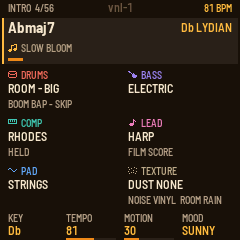
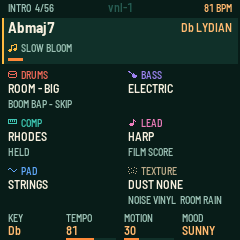
Theme: tangerine on teal (fm1-base's TEAL, APP_PALETTE 6) for the screens, the device mock and the site
Sam: Espresso reads as AI-generated. The screens move to fm1-base's new TEAL palette: background #0c1d1e, tile
#16302f (LINE), rule #2f5856 (DIM), label #9fbdb3 (GRAY), tangerine #ff8a3d (AMB), bright #ffb877 (HI), sand white
#f4ecdb (WHITE), mapped onto the slots as ESPRESSO's were. The record's disc is a teal-black #071011 (about 55% of
the background), its label tangerine. fm1-base also gains OLIVE (mustard on dark olive, APP_PALETTE 7), not used.

The workbench's device mock carries both palettes (device.js) and draws TEAL; parity matches. The part colors are
unchanged: on the background 5.5:1 (drums) to 13.3:1 (pending), on a tile 4.5:1 to 10.7:1.

The site: app/site/espresso.css becomes app/site/theme.css (tools/site.sh), the same rules in teal. On the
background: body text 14.8:1, labels 8.6:1, links 7.4:1, hover 10.2:1, errors (rose #ff8094) 7.2:1; on the tile
the lowest is 5.9:1. The manual's screenshots and the site's images are reshot (palette PNGs, lossless).

Needs fm1-base's TEAL commit (the base gitlink is bumped separately). Firmware +48 B (the two palettes), RAM
unchanged.

Claude-Session: https://claude.ai/code/session_01ENYN74abncM7Wq3c4vd7md

diff --git a/app/site/theme.css b/app/site/theme.css
@@ -1,0 +1,41 @@
+/* SPDX-License-Identifier: GPL-3.0-or-later
+   VNL-1's site in the device's colors: base/device/gfx.c's TEAL palette (app.h APP_PALETTE 6u). tools/site.sh
+   puts this in every page fm1-base's tools/make_site.py writes (the front page, the manual, the installer), after
+   their own styles, so it wins. Contrast on the background #0c1d1e (WCAG AA wants 4.5:1 for text):
+     sand #f4ecdb 14.8:1 (body text), tangerine #ff8a3d 7.4:1 (links, underlined), sage #9fbdb3 8.6:1 (secondary
+     text), bright tangerine #ffb877 10.2:1 (hover, focus), rose #ff8094 7.2:1 (errors); on the code and callout
+     tile #16302f the lowest is 5.9:1. The rule #2f5856 (2.2:1) draws rules and borders only, never text. */
+:root, :root:not([data-theme="light"]), :root[data-theme] {
+  /* the palette: background, its five steps, white (sand) */
+  --vnl-bg: #0c1d1e; --vnl-tile: #16302f; --vnl-rule: #2f5856; --vnl-label: #9fbdb3;
+  --vnl-accent: #ff8a3d; --vnl-hi: #ffb877; --vnl-text: #f4ecdb;
+  /* the manual and the front page (base/tools/manual_html.py) */
+  --paper: var(--vnl-bg); --sheet: var(--vnl-tile); --rule: var(--vnl-rule); --ink: var(--vnl-text);
+  --muted: var(--vnl-label); --hot: var(--vnl-accent); --hot-t: rgba(255, 138, 61, .16); --cool: var(--vnl-accent);
+  --cool-t: var(--vnl-tile); --hot-ink: var(--vnl-hi);
+  /* the installer (base/web/installer.html) */
+  --bg: var(--vnl-bg); --fg: var(--vnl-text); --dim: var(--vnl-label); --accent: var(--vnl-accent);
+  --on-accent: var(--vnl-bg); --bad: #ff8094; --focus: var(--vnl-hi);
+  color-scheme: dark;
+}
+body { background: var(--vnl-bg); color: var(--vnl-text); }
+a { color: var(--vnl-accent); text-decoration-color: currentColor; }
+a:hover { color: var(--vnl-hi); }
+:focus-visible { outline-color: var(--vnl-hi); }
+/* the manual and the front page: tangerine where the device puts it, rules in the device's rule step */
+.page h1 { color: var(--vnl-hi); }
+.page h2 { border-top: 1px solid var(--vnl-rule); }
+.page th { border-bottom-color: var(--vnl-rule); }
+.page .site { border-bottom-color: var(--vnl-accent); }
+.page .site .home, .page a.home { color: var(--vnl-hi); }
+.page .site nav a { color: var(--vnl-text); text-decoration-color: var(--vnl-accent); }
+.page .site nav a:hover { color: var(--vnl-hi); }
+.page .site nav a[aria-current] { color: var(--vnl-hi); }
+.page main > a.home { color: var(--vnl-label); }
+.page figure.shot img { box-shadow: 0 0 0 1px var(--vnl-rule); }
+.skip { background: var(--vnl-accent); color: var(--vnl-bg); }
+/* the installer: the log's and the text box's borders in the rule step */
+#log { border-color: var(--vnl-rule); }
+textarea { border-color: var(--vnl-rule); }
+button.plain { border-color: var(--vnl-label); }
+dialog { background: var(--vnl-tile); }

diff --git a/workbench/ui/screens.js b/workbench/ui/screens.js
@@ -11,7 +11,7 @@
 //     text   a template: {name} is a value below (or a line in `lines`)
 //     font   T, XS, S, B, M or L (the device's, at their real metrics: ui/fonts.js)
 //     x      the pen's left; right: the text ends there (measured); after: this many px past the previous item's end
-//     color  BLACK, WHITE, LINE, DIM, GRAY, AMB, HI (gfx.c's palette for app.h's APP_PALETTE: ESPRESSO)
+//     color  BLACK, WHITE, LINE, DIM, GRAY, AMB, HI (gfx.c's palette for app.h's APP_PALETTE: TEAL)
 //     when   a value that must be true (non-empty, non-zero), "!value" for false, or a list of them (all must hold)
 //   { rect: [x, y, w, h], color, when }
 //   { knobs: { x, dx, label: { y, font, color }, value: { y, font, color, when } } }: the screen's four knobs, K1 at x,
@@ -47,9 +47,9 @@ export default {
     PAD: [96, 164, 240], LEAD: [236, 124, 184], TEXTURE: [186, 168, 138],
     // a change made but not live yet: its value at once, "*" in front, in this color (Sam, 2026-11-06)
     PENDING: [250, 226, 90],
-    // the record's disc on the splash and the now-playing screen (Sam's splash C1: near-black, warm;
-    // darkened with the background, 2026-11-11)
-    VINYL: [8, 5, 3],
+    // the record's disc on the splash and the now-playing screen (Sam's splash C1): a teal-black, about 55% of the
+    // background (TEAL's #0c1d1e)
+    VINYL: [7, 16, 17],
   },
 
   // 1-bit icons, 9 px wide, rows of "#" (lit) and "." (the main screen's): one per part, drawn in its color

diff --git a/workbench/ui/device.js b/workbench/ui/device.js
@@ -19,8 +19,12 @@ export const PALETTES = {
   MONO: [...NEUTRALS, RGB(196, 196, 202), RGB(236, 236, 240), ...INK],
   ESPRESSO: [RGB(44, 32, 24), RGB(107, 84, 64), RGB(180, 156, 128), RGB(232, 136, 30), RGB(255, 184, 70),
              RGB(24, 17, 11), RGB(244, 230, 200)],
+  TEAL: [RGB(22, 48, 47), RGB(47, 88, 86), RGB(159, 189, 179), RGB(255, 138, 61), RGB(255, 184, 119),
+         RGB(12, 29, 30), RGB(244, 236, 219)],
+  OLIVE: [RGB(35, 40, 24), RGB(74, 83, 48), RGB(178, 185, 143), RGB(227, 179, 48), RGB(246, 211, 107),
+          RGB(20, 23, 12), RGB(245, 240, 220)],
 };
-export const THEME = "ESPRESSO";   // app.h's APP_PALETTE 5
+export const THEME = "TEAL";   // app.h's APP_PALETTE 6
 // the theme's colors, plus the screen data's own (`colors`: { NAME: [r, g, b] }, e.g. a color per part)
 export const colors = (theme = THEME, extra = {}) => {
   const p = PALETTES[theme];

diff --git a/app/ui/render.c b/app/ui/render.c
@@ -343,8 +343,8 @@ static void ui_blend(uint32_t i, uint16_t c, uint32_t a)
 
 /* a record, centred at (cx, cy) on the canvas (clipped to it): the disc in back with its edge smoothed, five grooves
    in past (r - 10 .. r - 50), the label (r * 5 / 13) in color, smoothed, and on it, turned by spin (1/256 turns,
-   counter-clockwise): a cream dot (WHITE) and, opposite, a wedge of light (HI); the spindle's hole. Whole numbers
-   only (the mock's, pixel for pixel) */
+   counter-clockwise): a dot in the theme's white (WHITE) and, opposite, a wedge of light (HI); the spindle's hole.
+   Whole numbers only (the mock's, pixel for pixel) */
 static void ui_record_at(int32_t cx, int32_t cy, int32_t r, uint16_t label, uint16_t disc, uint16_t groove, int spin)
 {
     int32_t rl = r * 5 / 13, x0 = cx - r - 1, x1 = cx + r + 1, y0 = cy - r - 1, y1 = cy + r + 1, x, y, k;

diff --git a/app/ui/screens_gen.c b/app/ui/screens_gen.c
@@ -247,7 +247,7 @@ const char UI_STRINGS[2865] =
 
 const int UI_N_SCREENS = 21, UI_HOME = 3;
 const uint8_t UI_PART_SCREENS = 8;
-const uint16_t UI_COLORS[16] = {0x1881, 0xf739, 0x2903, 0x6aa8, 0xb4f0, 0xec43, 0xfdc8, 0x9c1d, 0x4636, 0xeb4b, 0xebf7, 0x653e, 0xff0b, 0xfdc8, 0xbd51, 0x0820};
+const uint16_t UI_COLORS[16] = {0x08e3, 0xf77b, 0x1185, 0x2aca, 0x9df6, 0xfc47, 0xfdce, 0x9c1d, 0x4636, 0xeb4b, 0xebf7, 0x653e, 0xff0b, 0xfdc8, 0xbd51, 0x0082};
 const uint16_t UI_ICONS[10][8] = {
     {0x003, 0x006, 0x028, 0x070, 0x1f0, 0x1f0, 0x0e0},
     {0x1ff, 0x155, 0x155, 0x101, 0x1ff, 0x000, 0x000},

diff --git a/app/app.h b/app/app.h
@@ -9,7 +9,7 @@
 
 #define APP_NAME "VNL-1"
 #define APP_SPLASH_RGB RGB(242, 120, 72)
-#define APP_PALETTE 5u                   /* base/device/gfx.c's PALETTES: ESPRESSO (dark roast, amber, cream white) */
+#define APP_PALETTE 6u                   /* base/device/gfx.c's PALETTES: TEAL (deep teal, tangerine, sand white) */
 #define APP_BLOCK 256u                   /* frames per audio block: 5.8 ms at 44.1 kHz */
 
 /* The device's UI: 1 the screens' runtime (app/ui: the workbench's screens, generated;

diff --git a/CHANGELOG.md b/CHANGELOG.md
@@ -24,7 +24,9 @@ The first public release: a generative lo-fi hip hop firmware for the M-VAVE FM-
   keeps that part (its instrument, rhythm or style, register and variations) while the rest rolls. The song line
   locks too (key and scale, tempo, motion, mood).
 - **A CPU guard** that sheds reverb tails and quiet voices before the audio can glitch.
-- **A site with a browser installer** (Chrome or Edge), in the screens' espresso colors: the firmware
+- **Tangerine on teal:** the screens, the workbench's device mock and the site share one palette (deep teal,
+  tangerine, sand white); fm1-base also carries an olive and mustard one.
+- **A site with a browser installer** (Chrome or Edge), in the screens' colors: the firmware
   (`vnl-1-0.9.0.fwsc`), then the sample bank; the emulator and the manual beside it.
 - **For developers:** the host simulator, the browser emulator, the workbench, and patterns as MIDI and MusicXML.
 

diff --git a/app/docs/MANUAL.md b/app/docs/MANUAL.md
@@ -56,7 +56,7 @@ SYNTHS ONLY, and every part plays a synth or modeled instrument instead. Write t
 
 ## 2. How VNL-1 plays
 
-![The splash: half a record on the left with an amber label, the wordmark vnl-1 and LO-FI GENERATOR](img/vnl-splash.png "The splash")
+![The splash: half a record on the left with a tangerine label, the wordmark vnl-1 and LO-FI GENERATOR](img/vnl-splash.png "The splash")
 
 At power-on the splash shows for about a second while the record spins up, then the home screen. Press any control
 to skip it. VNL-1 starts stopped, with a song ready. Press PLAY.
